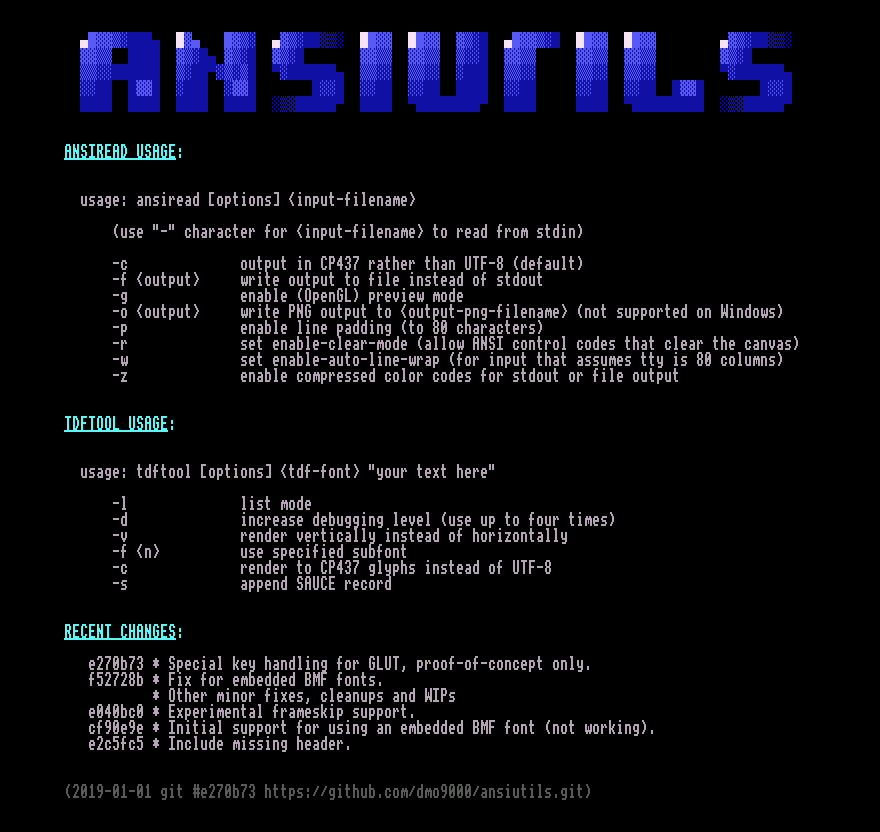
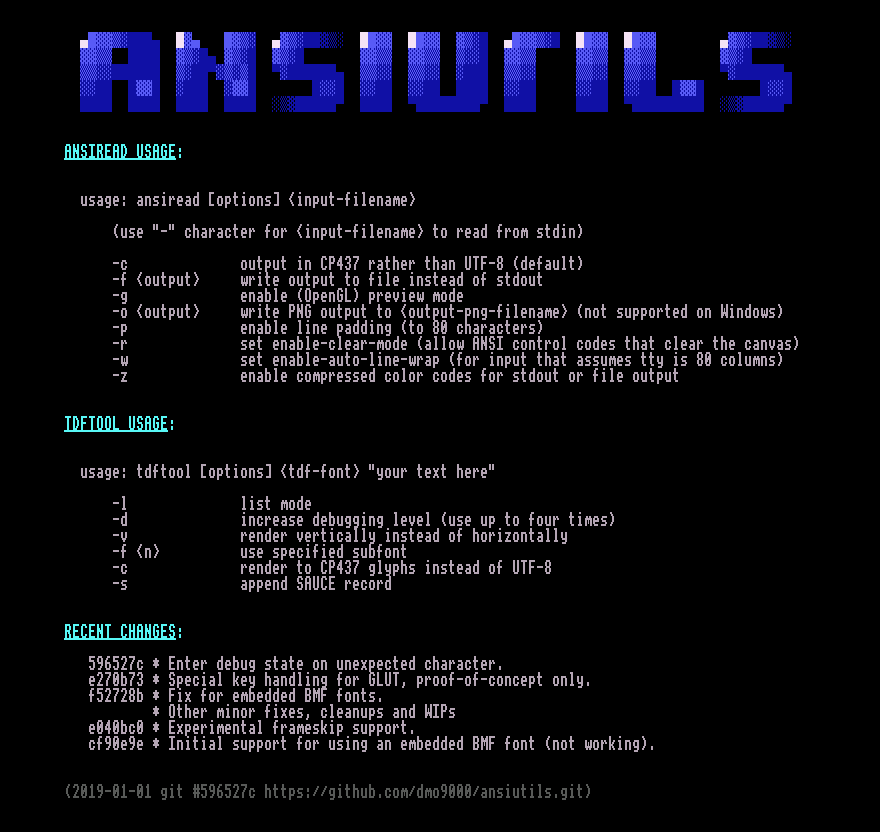
Some debugging tweaks.

Changed region(s): [[0.092, 0.7812, 0.7364, 0.9062], [0.2455, 0.9375, 0.2761, 0.9688]]

diff --git a/ansistate.c b/ansistate.c
@@ -664,7 +664,7 @@ bool ansi_to_canvas(ANSICanvas *canvas, unsigned char *buf, size_t nbytes, size_
                 parameters[paramidx] = paramval;
                 paramcount ++;
                 if (debug_flag) {
-                    printf("assign integer parameter [%u] = %u\n", paramidx, parameters[paramidx]);
+                    fprintf(stderr, "assign integer parameter [%u] = %u\n", paramidx, parameters[paramidx]);
                 }
                 paramidx++;
                 paramval = 0;
@@ -675,12 +675,21 @@ bool ansi_to_canvas(ANSICanvas *canvas, unsigned char *buf, size_t nbytes, size_
                     ansi_offset++;
                     paramval = (paramval * 10) + (c - 0x30);
                     if (debug_flag) {
-                        printf(" cont integer parameter [%u], current_value = %u\n", paramidx, paramval);
+                        fprintf(stderr, " cont integer parameter [%u], current_value = %u\n", paramidx, paramval);
                     }
+
+										if (paramval > 255) {
+												fprintf(stderr, " +++ integer paramater out of range? (paramval = %u)\n", paramval);
+												ansi_debug_dump();
+												exit(1);
+										}
+
                 } else {
                     printf("error: expecting digit or seperator, got '%c' (0x%02x)\n", c, c);
-                    ansi_debug_dump();
-                    assert(NULL);
+										printf("paramval = %u\n", paramval);
+										clear_ansi_flags(FLAG_ALL);
+										break;			
+                    //assert(NULL);
                 }
             }
             break;
